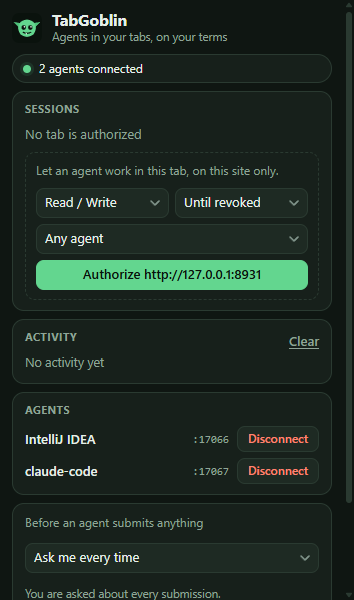
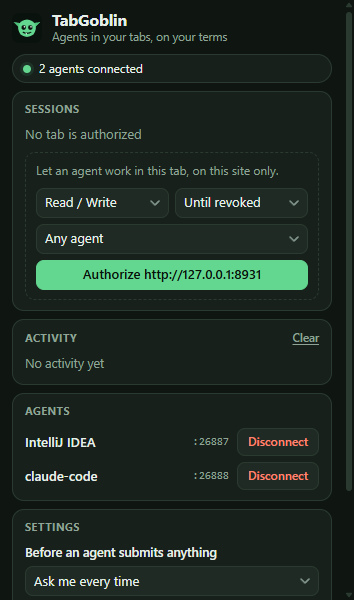
Line the popup up
A pass over the look of the popup, asked for by the owner, with every
view rendered at its whole length and double size.

- A heading and the action beside it share a baseline. "Clear" sat
  lower than "Activity", and was as large as the heading's text.
- The settings were the one card without a heading, and the switch's
  label ran over two lines. They now have a heading, and each setting
  has its name, its control and one line that says what it does.
- A session's choice for submissions was a caption and a list that
  lined up with nothing. It is one control as wide as the row above it,
  with its name inside.
- A no that stands was shown above a session's controls and what passes
  below them. Both follow from that choice and now stand under it. The
  links inside them had a button's face behind them.
- A suspended session lost the end of its address to the two chips
  beside it. The chips now go under the address where they do not fit:
  the address is what tells one session from another.
- The buttons in the list of agents are as high as those of a session.

The picture script can write each view at full length (FULL=1); the
popup's own window shows only its top. The documentation's pictures are
regenerated and were all looked at.

No rule and no text of a prompt changed. The end-to-end suite, which
drives this popup, passes on the final build.

Claude-Session: https://claude.ai/code/session_01Jo6BBeS5qe77AnBj7zFUgi

diff --git a/chrome-extension/src/popup.css b/chrome-extension/src/popup.css
@@ -81,7 +81,10 @@ main { padding: 0 12px; display: flex; flex-direction: column; gap: 8px; }
   box-shadow: var(--shadow);
 }
 .card[hidden] { display: none; }
-.heading { display: flex; align-items: center; justify-content: space-between; }
+/* A heading with an action beside it: both on one baseline, the action the quieter of the two. */
+.heading { display: flex; align-items: baseline; justify-content: space-between; margin-bottom: 8px; }
+.heading h2 { margin: 0; }
+.heading button.link { font-size: 11.5px; }
 
 h2 {
   margin: 0 0 8px;
@@ -133,9 +136,18 @@ button.link {
 }
 button.link:hover { color: var(--fg); }
 
-/* Switches for the two settings. */
-.settings { display: flex; flex-direction: column; gap: 8px; }
-.check { display: flex; align-items: center; gap: 10px; margin: 0; color: var(--fg); font-size: 12.5px; cursor: pointer; }
+/* Settings: each has its name, its control, and a line that says what it does. */
+.settings .setting { display: block; margin: 0 0 5px; color: var(--fg); font-size: 12.5px; font-weight: 600; }
+.settings .hint { display: block; margin: 5px 0 0; color: var(--muted); font-size: 11.5px; }
+.settings select { width: 100%; }
+/* A switch: the words on the left, the switch on the right, a line between it and the setting above. */
+.check {
+  display: flex; align-items: center; justify-content: space-between; gap: 12px;
+  margin: 10px 0 0; padding-top: 10px; border-top: 1px solid var(--line); cursor: pointer;
+}
+.check .words { min-width: 0; }
+.check .setting { margin-bottom: 1px; }
+.check .hint { margin: 0; }
 .check input {
   appearance: none; flex: none; position: relative;
   width: 32px; height: 18px; margin: 0; border-radius: 999px;
@@ -188,35 +200,42 @@ button.link:hover { color: var(--fg); }
 .list li { display: flex; align-items: center; gap: 8px; }
 .list .name { flex: 1; min-width: 0; font-size: 13px; font-weight: 600; letter-spacing: 0; overflow: hidden; text-overflow: ellipsis; white-space: nowrap; }
 .list .muted { font: 11px ui-monospace, Consolas, monospace; }
-.list button { height: 26px; padding: 0 10px; font-size: 12px; }
+.list button { height: 28px; padding: 0 10px; font-size: 12px; }
 
 /* ---------- sessions ---------- */
 .session { padding: 8px 10px; margin-bottom: 8px; background: var(--raised); border: 1px solid var(--line); border-radius: 10px; }
-.session .line { display: flex; align-items: center; gap: 6px; }
+.session .line { display: flex; align-items: center; flex-wrap: wrap; gap: 4px 6px; }
+.session .chips { display: flex; flex: none; gap: 6px; margin-left: auto; }
 .sid {
   flex: none; padding: 0 6px; border-radius: 6px;
   font: 600 11px/18px ui-monospace, "Cascadia Code", Consolas, monospace;
   background: var(--accent-soft); color: var(--accent);
 }
-.session .origin { flex: 1; min-width: 0; font-weight: 600; overflow: hidden; text-overflow: ellipsis; white-space: nowrap; }
+/* As wide as its text, so that the chips give way before the address is cut; never wider than its line. */
+.session .origin { flex: 0 1 auto; min-width: 0; max-width: calc(100% - 48px); font-weight: 600; overflow: hidden; text-overflow: ellipsis; white-space: nowrap; }
 .chip { flex: none; padding: 0 7px; border-radius: 999px; font-size: 10.5px; line-height: 17px; background: var(--card); border: 1px solid var(--line); color: var(--muted); white-space: nowrap; }
 .chip.state { background: var(--warn-soft); border-color: var(--warn-line); color: var(--warn); }
 .session .meta { color: var(--muted); font-size: 11.5px; margin: 3px 0 8px; }
 /* When this session asks, and what it lets pass. */
-.session .asking { margin-top: 6px; }
-.session .asking .caption { flex: none; color: var(--muted); font-size: 11.5px; }
-.session .asking select { flex: 1; min-width: 0; }
+/* One control as wide as the row above it: its name inside on the left, the choice beside it. */
+.session .asking {
+  margin-top: 6px; gap: 0; height: 28px; padding-left: 9px;
+  background: var(--card); border: 1px solid var(--line); border-radius: 8px;
+}
+.session .asking:focus-within { border-color: var(--accent); box-shadow: 0 0 0 2px var(--accent-soft); }
+.session .asking .caption { flex: none; color: var(--muted); font-size: 12px; }
+.session .asking select { flex: 1; min-width: 0; height: 26px; padding-left: 6px; border: 0; background-color: transparent; }
+.session .asking select:focus-visible { box-shadow: none; }
 .session .passing {
   margin-top: 8px; padding: 6px 8px; border-radius: 8px; font-size: 11.5px;
   background: var(--accent-soft); border: 1px solid var(--accent); color: var(--fg); overflow-wrap: anywhere;
 }
 .session .passing button.link { display: block; margin-top: 3px; padding: 0; height: auto; font-size: 11.5px; color: var(--accent); }
-.settings .setting { margin-top: 0; }
-.settings select { width: 100%; }
-.settings .hint { margin: 5px 0 10px; color: var(--muted); font-size: 11.5px; }
-/* A no that still stands, and the way to take it back. */
+/* A link in a box stays a link: no button face behind it. */
+.session .passing button.link, .session .held button.link { background: transparent; }
+/* A no that still stands, and the way to take it back. Under the row it follows from, like what passes. */
 .session .held {
-  margin: -2px 0 8px; padding: 6px 8px; border-radius: 8px; font-size: 11.5px;
+  margin-top: 8px; padding: 6px 8px; border-radius: 8px; font-size: 11.5px;
   background: var(--warn-soft); border: 1px solid var(--warn-line); color: var(--fg);
 }
 .session .held button.link { display: block; margin-top: 3px; padding: 0; height: auto; font-size: 11.5px; color: var(--warn); }

diff --git a/chrome-extension/src/popup.ts b/chrome-extension/src/popup.ts
@@ -204,9 +204,13 @@ function renderSessions(s: State): void {
       const origin = el('span', 'origin', displayOrigin(session.origin) + more);
       origin.title = session.origins.join('\n');
       line.append(el('span', 'sid', session.id), origin);
-      if (session.tabId === currentTab?.id) line.append(el('span', 'chip', 'this tab'));
-      if (session.suspended) line.append(el('span', 'chip state', 'suspended'));
-      else if (session.paused) line.append(el('span', 'chip state', 'paused'));
+      // The chips stay together. Where they do not fit beside the address they go below it: the
+      // address is what tells one session from another.
+      const chips = el('span', 'chips');
+      if (session.tabId === currentTab?.id) chips.append(el('span', 'chip', 'this tab'));
+      if (session.suspended) chips.append(el('span', 'chip state', 'suspended'));
+      else if (session.paused) chips.append(el('span', 'chip state', 'paused'));
+      if (chips.childElementCount) line.append(chips);
 
       const owner = session.clientId
         ? `${agentLabel({ name: session.clientName, id: session.clientId }, s.clients)}${session.ownerConnected ? '' : ' (not connected)'}`
@@ -231,21 +235,7 @@ function renderSessions(s: State): void {
       revoke.addEventListener('click', () => void request({ type: 'revoke', session: session.id }));
       controls.append(mode, pause, revoke);
 
-      row.append(line, el('div', 'meta', parts.join(' · ')));
-      // A no stands for a while. The user sees that it does, and can take it back.
-      if (session.notAsked.all || session.notAsked.requests.length) {
-        // A no is to a kind of request on a control of that name: Enter in it, or a click on it.
-        const names = session.notAsked.requests.map((request) => requestName(request.how, request.label));
-        const held = el('div', 'held');
-        held.append(el('span', '', session.notAsked.all
-          ? 'Its requests were declined or not answered. It will not ask for a few minutes.'
-          : `You declined ${names.join(', ')}. It will not ask again for a few minutes.`));
-        const again = el('button', 'link askagain', 'Let it ask again');
-        again.addEventListener('click', () => void request({ type: 'askAgain', session: session.id }));
-        held.append(again);
-        row.append(held);
-      }
-      row.append(controls);
+      row.append(line, el('div', 'meta', parts.join(' · ')), controls);
       // Asking is a matter of submitting, which only a session with write access can do.
       if (session.mode === 'write') {
         const asking = el('div', 'row asking');
@@ -260,6 +250,20 @@ function renderSessions(s: State): void {
         ask.addEventListener('change', () => void request({ type: 'setAsk', session: session.id, value: ask.value }));
         asking.append(el('span', 'caption', 'Submissions'), ask);
         row.append(asking);
+      }
+      // What follows from asking stands under it, in one place: a no that still stands, and what passes.
+      // A no stands for a while. The user sees that it does, and can take it back.
+      if (session.notAsked.all || session.notAsked.requests.length) {
+        // A no is to a kind of request on a control of that name: Enter in it, or a click on it.
+        const names = session.notAsked.requests.map((request) => requestName(request.how, request.label));
+        const held = el('div', 'held');
+        held.append(el('span', '', session.notAsked.all
+          ? 'Its requests were declined or not answered. It will not ask for a few minutes.'
+          : `You declined ${names.join(', ')}. It will not ask again for a few minutes.`));
+        const again = el('button', 'link askagain', 'Let it ask again');
+        again.addEventListener('click', () => void request({ type: 'askAgain', session: session.id }));
+        held.append(again);
+        row.append(held);
       }
       // What the user allowed and now passes without a question: there to see, and to end.
       if (session.passes.length) {

diff --git a/chrome-extension/src/popup.html b/chrome-extension/src/popup.html
@@ -108,6 +108,7 @@
     </section>
 
     <section class="card settings">
+      <h2>Settings</h2>
       <label for="askMode" class="setting">Before an agent submits anything</label>
       <select id="askMode" aria-describedby="askHint">
         <option value="always">Ask me every time</option>
@@ -115,9 +116,13 @@
         <option value="never">Do not ask me</option>
       </select>
       <p id="askHint" class="hint"></p>
+      <!-- Each setting: its name, its control, and a line that says what it does. -->
       <label class="check">
+        <span class="words">
+          <span class="setting">Indicator in the page</span>
+          <span class="hint">Shows the agent at work. Has a pause button.</span>
+        </span>
         <input id="indicator" type="checkbox">
-        <span>Show an indicator in the page while the agent works</span>
       </label>
     </section>
 

diff --git a/docs/agents/validation-log.md b/docs/agents/validation-log.md
@@ -3,6 +3,32 @@
 Newest first. One entry per session that verified something. Not part of the startup read.
 When this passes about ten entries, fold the oldest into one summary line.
 
+## 2026-11-21, on `pairing-race`: the look of the popup
+
+A pass for alignment, asked for by the owner. What changed: a heading and the action beside it
+share a baseline; the settings have a heading, and each setting its name, its control and one
+line of explanation; the "Submissions" choice of a session is one control as wide as the row
+above it; a no that stands is shown under that control, like what passes; the links in those two
+boxes have no button face; a session's chips go under its address where they do not fit beside
+it, instead of cutting the address.
+
+| Command | Result |
+|---|---|
+| `FULL=1 node screenshots.mjs prompts` | each view at its whole length and double size. Looked at before the change: a click prompt (dark), two things that pass (light), a high-impact prompt (light). After it: two things that pass (dark), the declined box (light), the prompt in the automatic mode (dark). |
+| `HEADED=1 node screenshots.mjs` | ten pictures changed; all ten were opened after the last change. The suspended session shows its whole address, with the chips under it. |
+| `cd chrome-extension && npm run check` | type-check clean, 132 tests, build |
+| `cd e2e && npm test` | 92 passed, 0 failed, on the final build |
+| `cd e2e/editors && npm test`, and with `BACKGROUND=1` | 222 and 220 of 225, no `SILENT`. Run before the last change, which moved the chips of a session. |
+| `node screenshots.mjs prompts` | 28 pictures as before; with `FULL=1`, 28 more |
+| `node docs/agents/check-links.mjs` | all resolve |
+
+Failed on the way: one run of the picture script, started right after another, timed out waiting
+for the two agents to connect. The next run passed; the cause was not looked for.
+
+Not looked at: an address too long for its line (it is cut with an ellipsis, by the rule; no
+picture has one), and the popup at another zoom level or font size. Not run: the server's
+suites and the Linux container; nothing they cover changed.
+
 ## 2026-11-21, on `pairing-race`: WP-9, where the time went
 
 The status tool says, when asked for diagnostics, where the time of the last tool calls went.
@@ -220,24 +246,10 @@ not been seen, and now runs `mvn verify`.
 Read, not run: the specification of revision 2026-07-28, through a summary of ten of its pages
 and its changelog. Its schema was not read.
 
-## 2026-11-21, on `typed-lines`, WP-3
-
-The prompt cannot be answered by accident; its sentence for a field of a form is corrected.
-
-| What | Result |
-|---|---|
-| `cd chrome-extension && npm run check` | type-check clean, 120 tests, build |
-| `cd e2e && npm test` | 87 passed, 0 failed. The new step answers a prompt the instant it appears, then by Tab and Enter. |
-| The prompt for a field of a form, headless: its first moment, afterwards in both colour schemes, and after Tab | 4 pictures looked at: the buttons are dim at first, Allow is still shown first, Tab reaches Deny |
-| `node docs/agents/check-links.mjs` | all resolve |
-
-Before the change, in a visible Chrome: Tab and then Enter typed into a prompt that had just come
-up allowed the request. That script was not kept; the end-to-end step takes its place.
-
-Not run again: the Java build and the editor lab, which this does not touch.
-
 ## Earlier, in one line each
 
+- 2026-11-21, on `typed-lines`, WP-3 (a prompt that cannot be answered by accident): extension
+  120 tests, end to end 87 of 87, four pictures of the prompt looked at.
 - 2026-11-21, on `typed-lines`, third commit (the look of the confirmation prompt): 20 pictures of
   the prompt looked at, three defects fixed; extension 120 tests, end to end 86 of 86. The server
   and the editor lab were not run again.

diff --git a/docs/agents/state.md b/docs/agents/state.md
@@ -9,14 +9,13 @@ Last updated: 2026-11-21. Claims here go stale; check the date, then `git status
 - Branch `pairing-race`: local, not pushed, not merged. On top of `87e5a79`, in this order: a
   message that arrives at the moment of pairing is no longer taken for a failed pairing (the
   cause of the CI failure described below); the popup says what kind of request was declined;
-  WP-9 filed; WP-9 built, the report of where the time went.
+  WP-9 filed; WP-9 built, the report of where the time went; a pass over the look of the popup.
 
 ## Active work
 
 | Item | Status | Authoritative source |
 |---|---|---|
 | Push and merge `pairing-race`, then look at the CI run of that push | Waiting for the owner, who pushes and merges | git |
-| A pass over the look of the popup: alignment, and whether it looks current | Asked for by the owner on 2026-11-21, to follow WP-9 | this page |
 
 The backlog in [TODO.md](../../TODO.md) is empty.
 
@@ -38,9 +37,10 @@ The backlog in [TODO.md](../../TODO.md) is empty.
 
 ## Handoff
 
-- **Last verification:** 2026-11-21, on `pairing-race`, all on its final build: every suite on
-  Windows, and the server's and the extension's tests on Linux in a container. Details in the
-  [validation log](validation-log.md).
+- **Last verification:** 2026-11-21, on `pairing-race`. The server and the extension's rules
+  were last verified with WP-9, on Windows and on Linux in a container. The last commit changes
+  only how the popup looks; for it the extension's check and the end-to-end suite were run and
+  every changed picture was looked at. Details in the [validation log](validation-log.md).
 - **Next action:** after the owner's push, the result of its CI run. Should the extension job
   fail again, its log now names the test and prints the failure: a test that hangs is ended
   after 60 seconds instead of running into the job's limit.

diff --git a/docs/agents/runbook.md b/docs/agents/runbook.md
@@ -146,7 +146,9 @@ cd e2e && node screenshots.mjs prompts          # into e2e/prompt-pictures/, not
 Success: twenty-eight pictures of fourteen views, and one printed line of text for each view:
 seven cases of the prompt, a session on which a no stands, the prompt in the automatic mode, a
 session in that mode with one thing that passes and with two, and the setting with each of its
-three values. It leaves `docs/` alone and needs no visible window.
+three values. It leaves `docs/` alone and needs no visible window. With `FULL=1` each view is
+also written at its whole length and double size (`<view>-full-<scheme>.png`): that is the
+picture to look at for spacing and alignment, since the popup's window shows only its top.
 
 ## Change the version
 

diff --git a/docs/user-guide.md b/docs/user-guide.md
@@ -264,7 +264,7 @@ starts a new server the next time it needs one.
 | Setting | Where | Default |
 |---|---|---|
 | When to ask before a submission | *Before an agent submits anything* in the popup; per session next to *Submissions* | Ask me every time |
-| In-page indicator | Toggle in the popup | on |
+| Indicator in the page | Switch under *Settings* in the popup | on |
 | First port | *Connection…* in the popup; `--port` on the server | 47821 |
 | Token file | `--token-file` / `BCMCP_TOKEN_FILE` | `~/.browser-context-mcp/pairing-token` |
 | Log level | `BCMCP_LOG` = `debug`, `info`, `warn`, `off` | `info` |
